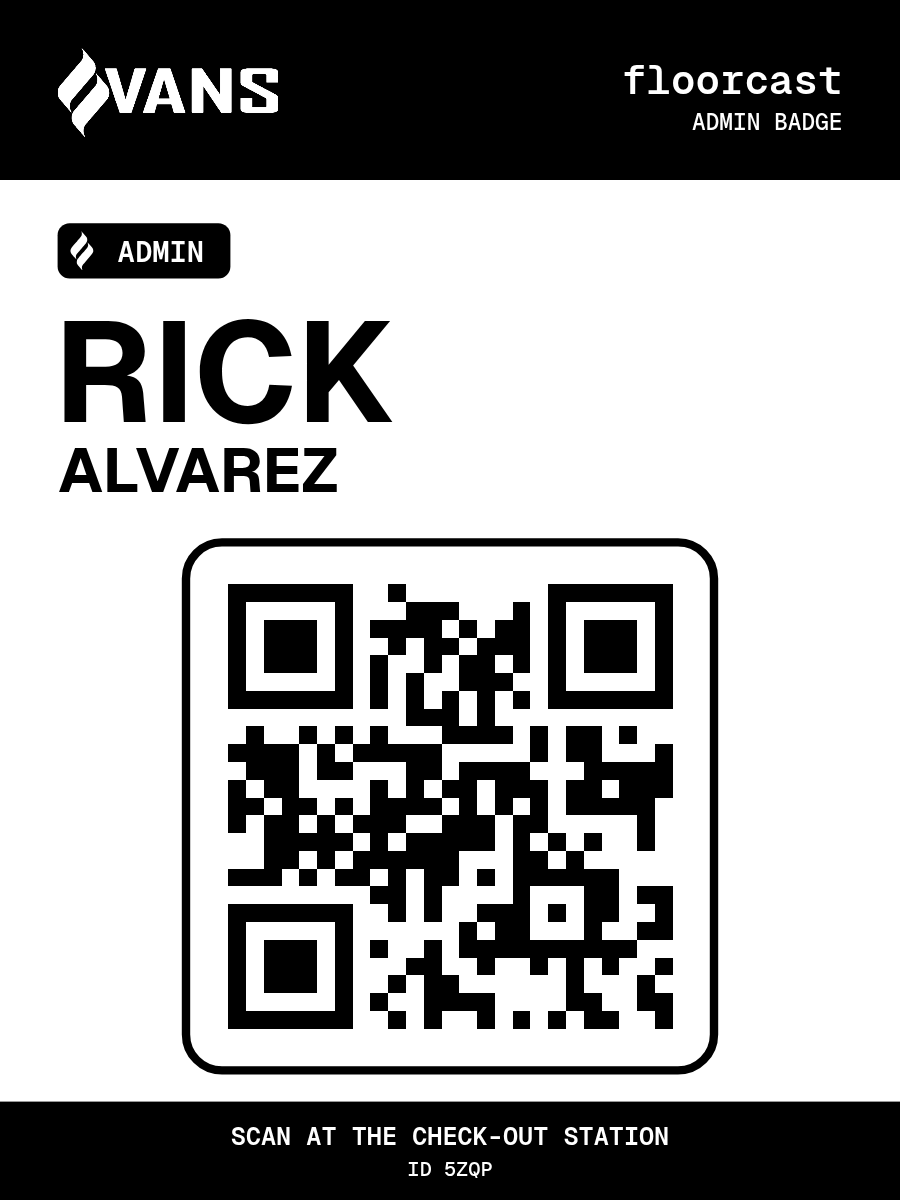
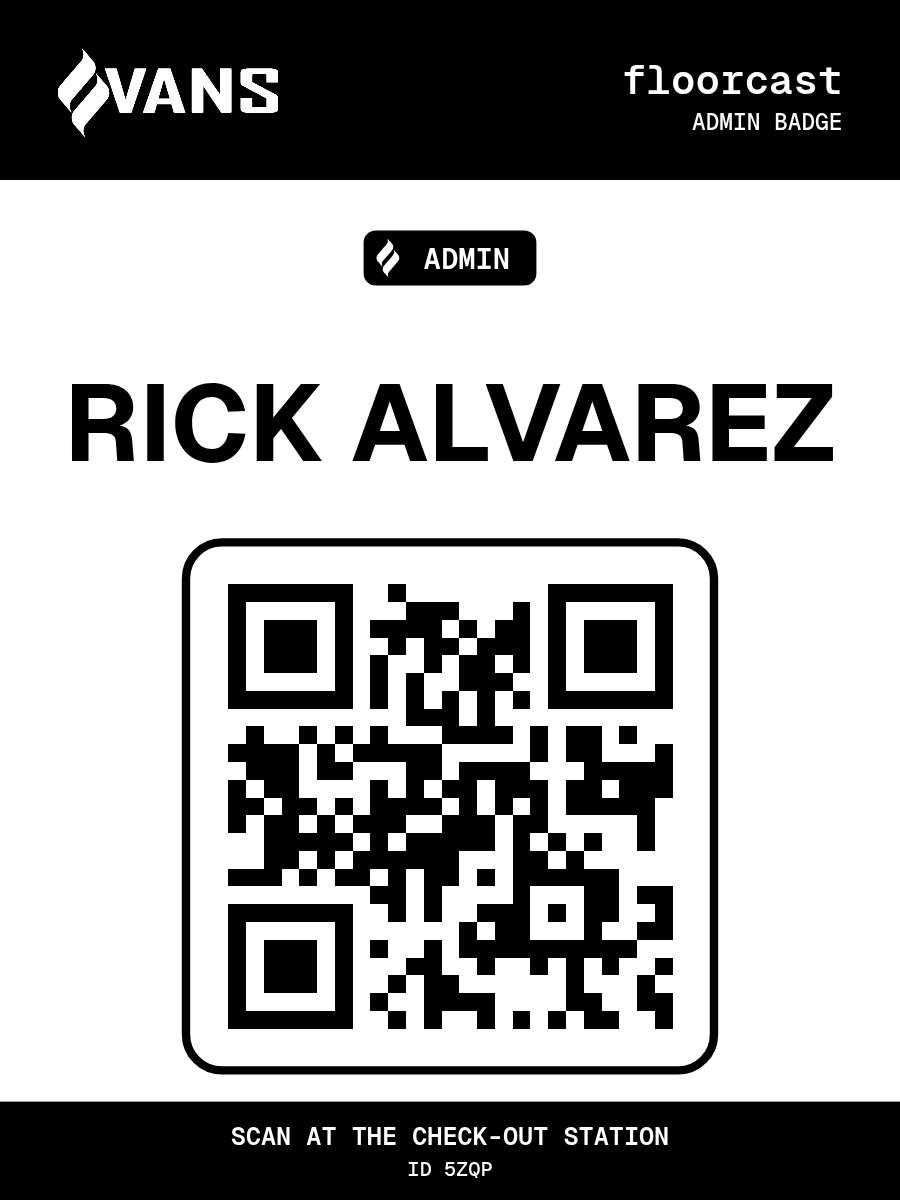
Badges: tag and full name centered, first and last name on one line
Claude-Session: https://claude.ai/code/session_01MqZR9KwRFkVfd9nv53fq6N

Changed region(s): [[0.0622, 0.185, 0.9333, 0.4317]]

diff --git a/src/lib/badgeTall.ts b/src/lib/badgeTall.ts
@@ -94,12 +94,16 @@ export async function drawBadge(name: string, payload: string, style: BadgeStyle
   }
 
   // ---------------------------------------------------------------- tag + name
+  // Both centered: the CREW / ADMIN tag, then first and last name on one line.
   const tag = admin ? "ADMIN" : "CREW";
   g.textAlign = "left";
   g.font = `700 24px ${MONO}`;
   const tw = g.measureText(tag).width;
+  const tagTop = 192;
   if (color) {
-    roundRect(g, M, 186, tw + 32, 46, 10);
+    const pw = tw + 32;
+    const px = (W - pw) / 2;
+    roundRect(g, px, tagTop, pw, 46, 10);
     g.fillStyle = admin ? "#2a080a" : "#0c1c20";
     g.fill();
     g.fillStyle = `rgba(${accentRgb},0.16)`;
@@ -108,35 +112,37 @@ export async function drawBadge(name: string, payload: string, style: BadgeStyle
     g.lineWidth = 2.5;
     g.stroke();
     g.fillStyle = accent;
-    g.fillText(tag, M + 16, 218);
-  } else if (admin) {
-    roundRect(g, M, 186, tw + 72, 46, 10);
-    g.fillStyle = "#000000";
-    g.fill();
-    flames(g, M + 10, 192, 34, (p) => {
-      g.fillStyle = "#ffffff";
-      g.fill(p);
-    });
-    g.fillStyle = "#ffffff";
-    g.fillText(tag, M + 50, 218);
+    g.fillText(tag, px + 16, tagTop + 32);
   } else {
-    flames(g, M, 190, 40, (p) => {
+    // Black & white: a small flame beside the word; admin gets a solid black pill.
+    const pw = tw + (admin ? 72 : 44);
+    const px = (W - pw) / 2;
+    if (admin) {
+      roundRect(g, px, tagTop, pw, 46, 10);
       g.fillStyle = "#000000";
+      g.fill();
+    }
+    const ink = admin ? "#ffffff" : "#000000";
+    flames(g, px + (admin ? 10 : 0), tagTop + 6, 34, (p) => {
+      g.fillStyle = ink;
       g.fill(p);
     });
-    g.fillStyle = "#000000";
-    g.fillText(tag, M + 38, 220);
+    g.fillStyle = ink;
+    g.fillText(tag, px + (admin ? 50 : 40), tagTop + 32);
   }
 
-  const firstSize = fit(g, first, 800, 118, 54, W - M * 2);
+  // One line, shrunk to fit; the last name a shade lighter on the color badge.
+  const gap = rest ? " " : "";
+  const size = fit(g, `${first}${gap}${rest}`, 800, 92, 34, W - M * 2);
+  const wFirst = g.measureText(`${first}${gap}`).width;
+  const wAll = g.measureText(`${first}${gap}${rest}`).width;
+  const nx = (W - wAll) / 2;
+  const ny = 352 + size * 0.36;
   g.fillStyle = color ? "#ffffff" : "#000000";
-  let y = 250 + firstSize * 0.86;
-  g.fillText(first, M - 3, y);
+  g.fillText(first, nx, ny);
   if (rest) {
-    const restSize = fit(g, rest, 700, 52, 28, W - M * 2);
-    y += restSize * 1.12;
     g.fillStyle = color ? "rgba(255,255,255,0.72)" : "#000000";
-    g.fillText(rest, M, y);
+    g.fillText(rest, nx + wFirst, ny);
   }
 
   // ---------------------------------------------------------------- QR tile
